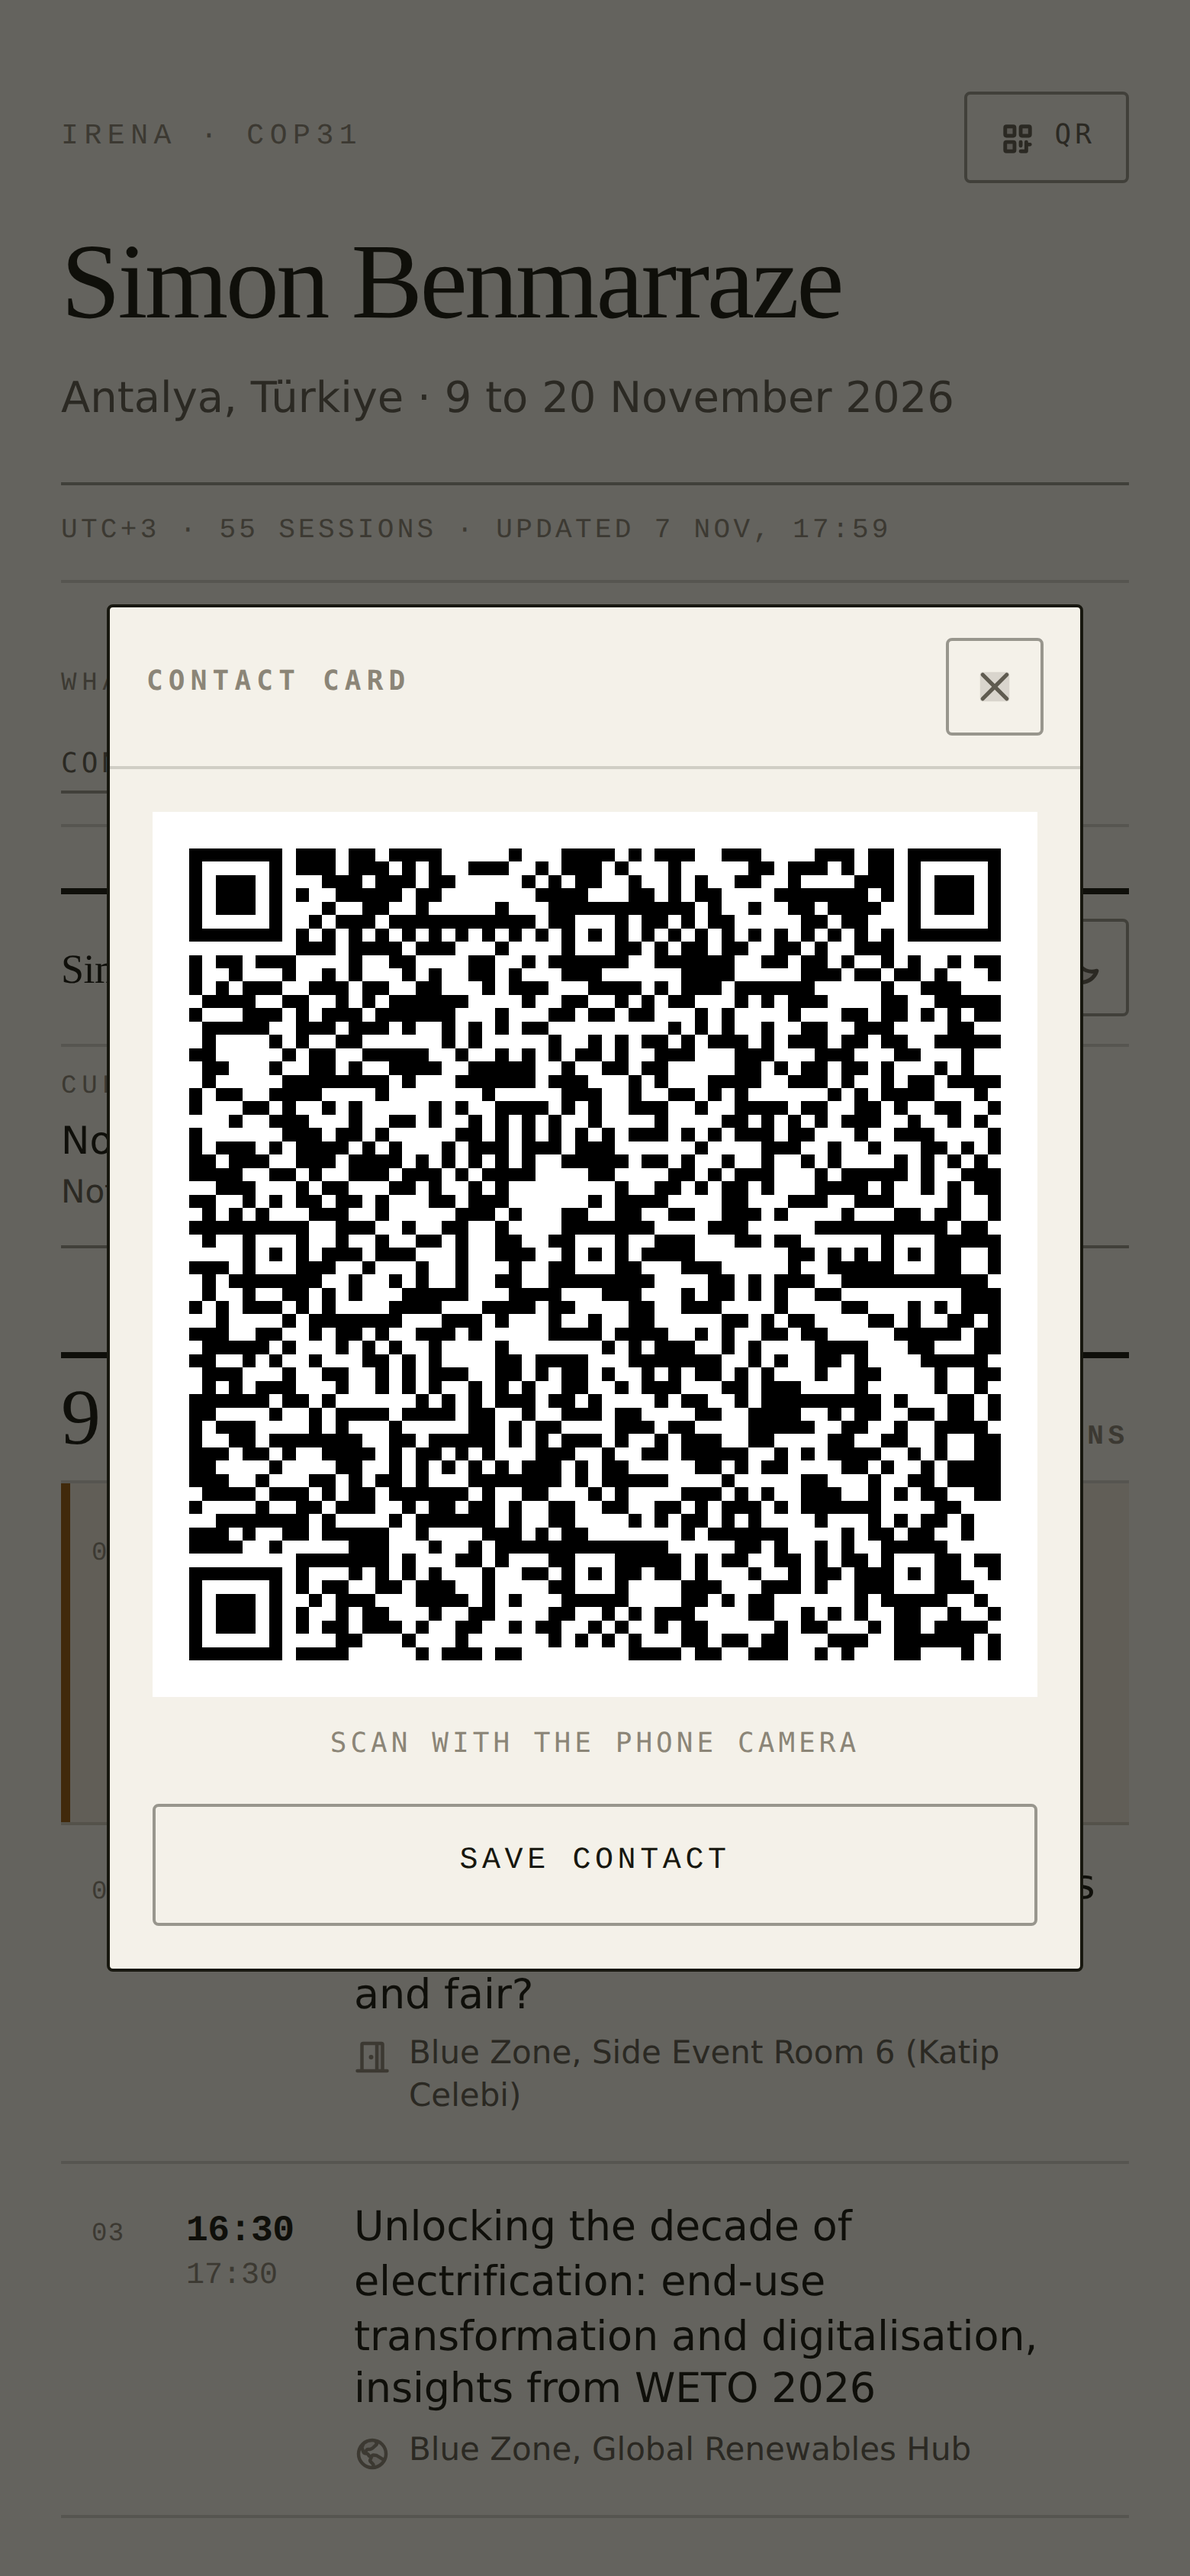
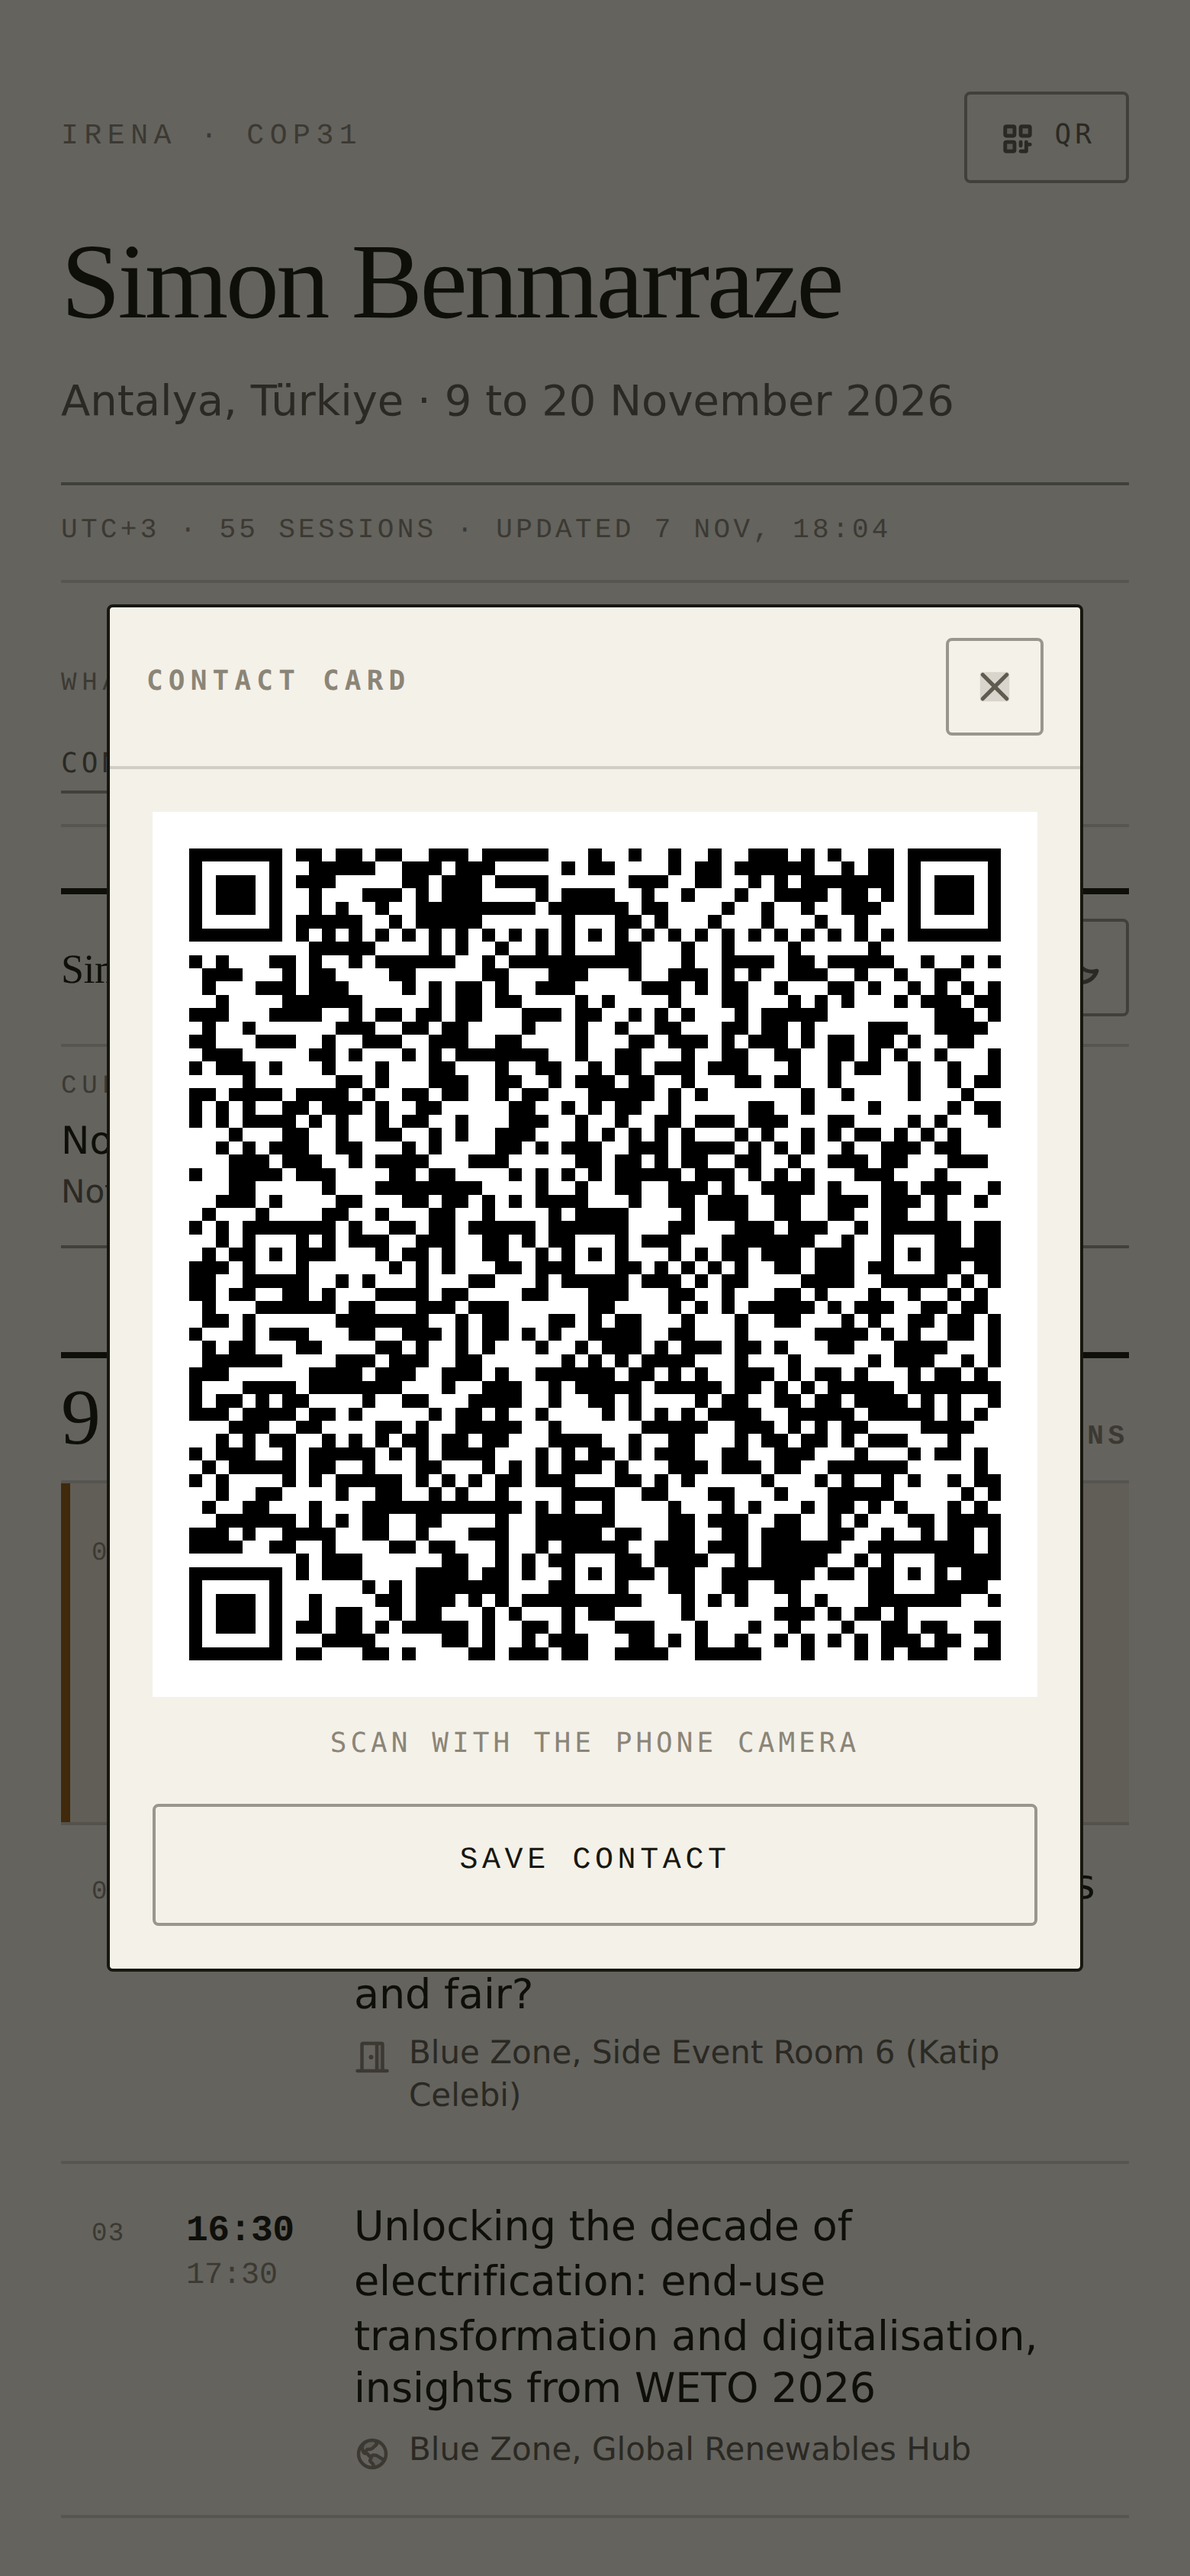
QR card carries the work email; contact card file matches

Changed region(s): [[0.1538, 0.311, 0.8615, 0.6531], [0.7692, 0.1244, 0.8, 0.1555]]

diff --git a/docs/index.html b/docs/index.html
@@ -213,7 +213,7 @@ footer{margin:30px 0 0}
     </button></div>
   <h1>Simon Benmarraze</h1>
   <p class="sub">Antalya, T&uuml;rkiye &middot; 9 to 20 November 2026</p>
-  <p class="facts">UTC+3 &middot; 55 sessions &middot; updated 7 Nov, 18:00</p>
+  <p class="facts">UTC+3 &middot; 55 sessions &middot; updated 7 Nov, 18:04</p>
 
   <p class="contactline"><span class="lbl">WhatsApp</span>
     <a class="num" href="tel:+491721523311">+49 172 1523311</a>
@@ -255,7 +255,7 @@ footer{margin:30px 0 0}
       <svg class="ic" aria-hidden="true"><use href="#i-x"></use></svg>
     </button>
   </div>
-  <div class="qrimg"><div class="qrwhite"><svg xmlns="http://www.w3.org/2000/svg" viewBox="0 0 61 61" shape-rendering="crispEdges"><path fill="#ffffff" d="M0 0h61v61H0z"/><path stroke="#000000" d="M0 0.5h7m1 0h3m1 0h2m1 0h4m5 0h1m3 0h4m1 0h1m1 0h3m2 0h3m4 0h3m1 0h2m1 0h7M0 1.5h1m5 0h1m1 0h3m1 0h3m1 0h1m1 0h1m2 0h3m2 0h1m1 0h3m1 0h1m3 0h1m5 0h2m1 0h3m1 0h1m1 0h2m1 0h1m5 0h1M0 2.5h1m1 0h3m1 0h1m3 0h3m1 0h3m1 0h2m5 0h1m1 0h1m1 0h2m2 0h1m2 0h1m1 0h1m2 0h2m2 0h1m4 0h3m1 0h1m1 0h3m1 0h1M0 3.5h1m1 0h3m1 0h1m1 0h1m2 0h5m1 0h2m7 0h4m3 0h2m1 0h1m1 0h2m4 0h7m1 0h1m1 0h1m1 0h3m1 0h1M0 4.5h1m1 0h3m1 0h1m3 0h1m2 0h2m2 0h1m5 0h1m3 0h11m1 0h1m2 0h1m2 0h2m1 0h4m2 0h1m1 0h3m1 0h1M0 5.5h1m5 0h1m2 0h1m1 0h3m1 0h11m1 0h2m3 0h1m1 0h2m1 0h1m1 0h2m5 0h2m1 0h2m3 0h1m5 0h1M0 6.5h7m1 0h1m1 0h1m1 0h1m1 0h1m1 0h1m1 0h1m1 0h1m1 0h1m1 0h1m1 0h1m1 0h1m1 0h1m1 0h1m1 0h1m1 0h1m1 0h1m1 0h1m1 0h1m1 0h1m1 0h1m1 0h1m1 0h1m1 0h1m1 0h7M8 7.5h3m1 0h4m1 0h3m3 0h1m4 0h1m3 0h2m1 0h1m1 0h2m1 0h2m2 0h2m1 0h1m2 0h3M0 8.5h1m1 0h2m1 0h3m4 0h1m2 0h2m4 0h2m2 0h1m1 0h6m2 0h6m2 0h2m1 0h2m1 0h1m2 0h1m1 0h1m2 0h1m1 0h2M0 9.5h1m2 0h1m3 0h1m2 0h1m1 0h1m3 0h1m1 0h1m2 0h2m1 0h1m3 0h3m6 0h4m5 0h3m1 0h2m1 0h2m1 0h1m3 0h1M0 10.5h1m1 0h1m1 0h3m2 0h3m1 0h2m2 0h2m3 0h1m1 0h3m3 0h4m1 0h1m1 0h3m1 0h6m5 0h1m2 0h3M1 11.5h4m2 0h2m2 0h1m1 0h1m1 0h6m4 0h1m2 0h2m2 0h1m1 0h1m1 0h2m3 0h1m1 0h1m1 0h3m4 0h2m2 0h5M0 12.5h1m3 0h3m1 0h1m1 0h3m1 0h6m3 0h1m3 0h2m1 0h2m1 0h2m3 0h1m1 0h1m4 0h1m3 0h2m1 0h2m1 0h1m1 0h1m1 0h2M1 13.5h5m2 0h3m1 0h3m1 0h1m2 0h1m1 0h1m1 0h1m1 0h2m9 0h1m1 0h1m1 0h1m2 0h1m2 0h2m2 0h3m4 0h2M1 14.5h1m4 0h1m1 0h1m2 0h2m6 0h1m1 0h1m5 0h1m2 0h1m1 0h1m1 0h2m1 0h1m1 0h3m1 0h1m1 0h3m1 0h2m1 0h2m2 0h5M0 15.5h2m5 0h1m1 0h2m2 0h5m2 0h1m2 0h1m1 0h1m1 0h1m1 0h2m1 0h1m2 0h3m3 0h3m3 0h3m3 0h2m3 0h1M1 16.5h2m3 0h1m2 0h2m1 0h1m2 0h4m2 0h5m2 0h1m2 0h2m1 0h2m5 0h2m1 0h1m1 0h2m1 0h2m1 0h1m3 0h1m1 0h1M1 17.5h1m5 0h8m1 0h1m3 0h6m1 0h3m3 0h1m1 0h1m3 0h4m2 0h3m1 0h1m2 0h1m1 0h2m1 0h4M0 18.5h1m1 0h2m2 0h4m4 0h1m7 0h1m5 0h3m2 0h1m2 0h2m1 0h1m1 0h1m6 0h1m1 0h1m1 0h4m3 0h1M0 19.5h1m3 0h2m1 0h1m2 0h1m1 0h1m5 0h1m1 0h1m2 0h4m1 0h1m1 0h1m2 0h3m2 0h1m2 0h4m1 0h2m2 0h2m1 0h1m2 0h2m2 0h1M3 20.5h1m2 0h3m3 0h1m2 0h2m1 0h1m2 0h1m1 0h1m1 0h1m1 0h1m2 0h1m4 0h1m4 0h2m1 0h1m1 0h1m1 0h1m1 0h3m2 0h1m2 0h1m1 0h1M0 21.5h1m6 0h3m1 0h2m1 0h1m5 0h2m1 0h1m1 0h1m1 0h1m1 0h1m1 0h1m1 0h3m1 0h1m1 0h1m1 0h3m1 0h2m3 0h1m2 0h3m4 0h1M0 22.5h1m1 0h3m1 0h1m1 0h4m1 0h1m1 0h1m3 0h1m1 0h3m1 0h3m1 0h3m6 0h1m4 0h3m2 0h1m2 0h1m3 0h2m1 0h1m1 0h1M0 23.5h2m1 0h3m2 0h3m1 0h4m1 0h1m1 0h1m1 0h1m1 0h1m1 0h1m2 0h5m1 0h2m1 0h1m2 0h1m2 0h1m2 0h1m1 0h1m4 0h1m1 0h1m1 0h1m1 0h1M0 24.5h4m2 0h2m1 0h1m2 0h3m1 0h3m1 0h1m1 0h4m4 0h2m4 0h2m1 0h1m1 0h3m3 0h1m1 0h5m1 0h1m2 0h3M2 25.5h3m3 0h1m1 0h2m3 0h2m1 0h1m2 0h1m1 0h1m8 0h1m2 0h2m1 0h1m1 0h2m1 0h1m3 0h4m1 0h1m2 0h1m1 0h1m1 0h2M0 26.5h2m2 0h1m1 0h1m1 0h2m1 0h2m1 0h1m3 0h2m1 0h3m6 0h1m1 0h4m4 0h2m3 0h3m2 0h3m4 0h1m2 0h1M1 27.5h1m1 0h1m1 0h1m3 0h3m2 0h1m5 0h3m1 0h1m3 0h2m2 0h2m2 0h2m2 0h3m1 0h1m4 0h1m3 0h2m1 0h2m2 0h1M0 28.5h9m2 0h3m2 0h1m2 0h2m2 0h1m4 0h7m4 0h3m5 0h10m1 0h2M1 29.5h1m2 0h1m3 0h1m2 0h1m2 0h1m2 0h2m1 0h1m2 0h2m2 0h2m3 0h1m2 0h3m3 0h2m1 0h2m6 0h1m3 0h5M4 30.5h1m1 0h1m1 0h1m1 0h3m1 0h3m3 0h1m2 0h3m2 0h1m1 0h1m1 0h1m1 0h4m7 0h2m1 0h1m1 0h1m1 0h1m1 0h1m1 0h2m2 0h1M0 31.5h3m1 0h1m3 0h3m2 0h1m3 0h1m2 0h1m3 0h1m2 0h2m3 0h2m3 0h3m5 0h1m2 0h5m3 0h2m2 0h1M1 32.5h1m1 0h7m2 0h1m2 0h1m1 0h1m2 0h1m2 0h2m2 0h8m4 0h2m1 0h1m1 0h3m2 0h11M1 33.5h1m2 0h1m2 0h2m1 0h1m1 0h1m3 0h5m3 0h4m3 0h3m3 0h1m1 0h2m1 0h1m1 0h1m2 0h2m9 0h3M0 34.5h1m1 0h1m1 0h3m1 0h1m1 0h1m4 0h4m3 0h4m1 0h2m4 0h2m2 0h3m4 0h1m4 0h2m3 0h1m1 0h1m1 0h3M2 35.5h1m4 0h1m1 0h7m3 0h3m1 0h1m3 0h1m2 0h1m2 0h2m5 0h2m1 0h1m1 0h2m4 0h2m1 0h1m2 0h2m1 0h1M0 36.5h3m2 0h2m2 0h1m1 0h2m1 0h1m2 0h3m1 0h1m5 0h4m1 0h4m2 0h1m1 0h1m2 0h2m1 0h2m5 0h5m1 0h2M1 37.5h5m1 0h1m3 0h1m1 0h1m1 0h1m2 0h1m4 0h1m7 0h1m1 0h1m1 0h3m2 0h1m1 0h1m4 0h4m3 0h2m3 0h2M0 38.5h2m2 0h1m1 0h1m2 0h1m3 0h2m1 0h1m1 0h1m4 0h2m1 0h4m3 0h7m2 0h1m1 0h1m2 0h2m1 0h1m4 0h5M1 39.5h3m3 0h1m2 0h2m2 0h1m1 0h1m1 0h3m2 0h2m1 0h1m1 0h2m1 0h1m2 0h1m1 0h1m1 0h2m1 0h1m1 0h1m3 0h1m2 0h2m4 0h1m2 0h2M1 40.5h1m1 0h1m1 0h3m3 0h1m2 0h1m1 0h1m1 0h1m2 0h1m1 0h1m1 0h1m2 0h2m2 0h1m1 0h3m3 0h2m1 0h3m4 0h1m5 0h1m2 0h1M0 41.5h6m1 0h2m1 0h1m6 0h1m1 0h1m1 0h1m1 0h3m1 0h2m1 0h1m4 0h1m1 0h2m2 0h1m1 0h9m1 0h1m3 0h2m1 0h1M0 42.5h2m4 0h1m2 0h1m1 0h4m1 0h4m1 0h2m2 0h1m2 0h3m1 0h2m4 0h2m2 0h4m2 0h1m1 0h2m2 0h2m1 0h2m1 0h1M0 43.5h1m1 0h3m4 0h1m1 0h1m3 0h1m5 0h2m1 0h1m1 0h2m4 0h3m1 0h2m4 0h5m2 0h2m2 0h1m2 0h4M0 44.5h1m2 0h2m1 0h7m2 0h2m1 0h5m1 0h1m1 0h1m1 0h3m1 0h1m2 0h1m1 0h3m2 0h2m4 0h2m2 0h2m2 0h1m2 0h2M0 45.5h3m1 0h2m1 0h1m2 0h4m1 0h1m1 0h2m1 0h1m1 0h1m3 0h3m2 0h1m2 0h2m1 0h5m2 0h1m1 0h1m1 0h4m2 0h1m1 0h1m2 0h2M0 46.5h2m4 0h1m4 0h2m2 0h1m1 0h1m1 0h1m1 0h1m1 0h1m1 0h3m1 0h1m1 0h2m5 0h2m1 0h1m1 0h2m4 0h2m1 0h1m2 0h1m1 0h4M0 47.5h3m2 0h1m3 0h2m1 0h1m1 0h2m1 0h1m3 0h7m1 0h1m1 0h5m4 0h1m5 0h2m3 0h1m2 0h2m1 0h4M1 48.5h4m1 0h3m1 0h1m1 0h2m1 0h6m1 0h1m2 0h2m3 0h1m1 0h1m4 0h3m1 0h1m1 0h1m2 0h3m2 0h1m1 0h1m1 0h2m2 0h2M0 49.5h1m4 0h1m2 0h2m1 0h3m2 0h1m1 0h2m1 0h2m1 0h1m2 0h2m2 0h2m2 0h2m1 0h1m1 0h3m1 0h1m1 0h6m4 0h2M2 50.5h7m1 0h1m4 0h1m1 0h6m1 0h1m2 0h2m4 0h1m1 0h1m1 0h2m1 0h1m1 0h1m4 0h1m3 0h1m1 0h1m1 0h2m1 0h1M0 51.5h3m1 0h1m2 0h2m1 0h5m2 0h1m4 0h3m1 0h1m1 0h2m7 0h1m1 0h6m4 0h1m1 0h2m1 0h2m2 0h1M0 52.5h4m2 0h1m5 0h3m3 0h1m2 0h1m1 0h13m5 0h2m1 0h1m2 0h1m1 0h1m2 0h5M8 53.5h7m1 0h1m3 0h2m1 0h1m3 0h2m3 0h5m1 0h1m1 0h2m2 0h2m1 0h1m1 0h2m1 0h1m3 0h2m1 0h2M0 54.5h7m1 0h1m3 0h1m1 0h1m1 0h1m1 0h1m3 0h1m2 0h2m1 0h1m1 0h1m1 0h2m1 0h2m1 0h1m3 0h1m2 0h1m1 0h2m1 0h3m1 0h1m1 0h2m2 0h1M0 55.5h1m5 0h1m1 0h1m1 0h2m2 0h2m1 0h3m2 0h1m4 0h2m3 0h1m4 0h3m3 0h3m1 0h1m2 0h3m3 0h3M0 56.5h1m1 0h3m1 0h1m2 0h1m1 0h3m3 0h4m1 0h1m1 0h1m3 0h5m4 0h2m1 0h1m1 0h2m6 0h1m1 0h5m2 0h1M0 57.5h1m1 0h3m1 0h1m1 0h1m2 0h1m1 0h2m3 0h1m2 0h2m4 0h2m2 0h1m1 0h1m1 0h3m4 0h2m2 0h1m1 0h1m1 0h1m2 0h2m2 0h1m2 0h1M0 58.5h1m1 0h3m1 0h1m1 0h1m1 0h2m1 0h3m1 0h1m2 0h2m2 0h1m1 0h2m2 0h1m1 0h1m2 0h1m1 0h2m5 0h1m1 0h2m3 0h1m1 0h2m1 0h4M0 59.5h1m5 0h1m4 0h2m3 0h1m3 0h1m6 0h1m1 0h1m1 0h1m1 0h1m3 0h2m1 0h2m1 0h2m3 0h3m2 0h6m1 0h1M0 60.5h7m1 0h4m5 0h1m1 0h3m1 0h2m8 0h4m1 0h2m2 0h3m2 0h1m1 0h1m3 0h2m3 0h1m1 0h1"/></svg>
+  <div class="qrimg"><div class="qrwhite"><svg xmlns="http://www.w3.org/2000/svg" viewBox="0 0 61 61" shape-rendering="crispEdges"><path fill="#ffffff" d="M0 0h61v61H0z"/><path stroke="#000000" d="M0 0.5h7m1 0h2m1 0h2m1 0h2m2 0h3m1 0h5m3 0h1m2 0h1m2 0h1m2 0h1m2 0h3m1 0h1m1 0h1m2 0h2m1 0h7M0 1.5h1m5 0h1m2 0h5m2 0h3m1 0h3m5 0h1m1 0h2m4 0h1m1 0h2m1 0h6m2 0h1m1 0h2m1 0h1m5 0h1M0 2.5h1m1 0h3m1 0h1m1 0h3m5 0h2m1 0h3m1 0h4m6 0h3m2 0h2m2 0h1m1 0h1m1 0h7m1 0h1m1 0h3m1 0h1M0 3.5h1m1 0h3m1 0h1m2 0h1m3 0h3m1 0h1m1 0h3m4 0h1m1 0h4m2 0h1m2 0h1m3 0h1m2 0h4m1 0h2m1 0h1m1 0h1m1 0h3m1 0h1M0 4.5h1m1 0h3m1 0h1m2 0h1m1 0h1m2 0h1m2 0h9m1 0h6m1 0h2m4 0h1m2 0h1m2 0h1m2 0h3m2 0h1m1 0h3m1 0h1M0 5.5h1m5 0h1m1 0h5m2 0h1m1 0h5m6 0h1m3 0h2m1 0h1m3 0h1m3 0h1m3 0h1m2 0h1m3 0h1m5 0h1M0 6.5h7m1 0h1m1 0h1m1 0h1m1 0h1m1 0h1m1 0h1m1 0h1m1 0h1m1 0h1m1 0h1m1 0h1m1 0h1m1 0h1m1 0h1m1 0h1m1 0h1m1 0h1m1 0h1m1 0h1m1 0h1m1 0h1m1 0h1m1 0h1m1 0h7M9 7.5h5m4 0h1m1 0h1m2 0h1m2 0h1m1 0h1m3 0h2m3 0h1m2 0h1m4 0h1m5 0h1M0 8.5h1m1 0h1m3 0h2m1 0h1m2 0h1m1 0h6m2 0h1m1 0h10m3 0h1m2 0h4m1 0h2m1 0h5m2 0h1m2 0h1m1 0h1M1 9.5h3m3 0h1m1 0h2m4 0h2m5 0h2m3 0h3m3 0h1m2 0h3m1 0h1m1 0h1m2 0h3m2 0h1m2 0h1m2 0h2M1 10.5h1m3 0h3m1 0h3m4 0h1m1 0h1m1 0h2m1 0h1m2 0h3m5 0h3m1 0h1m1 0h2m2 0h1m3 0h2m1 0h1m2 0h1m1 0h1m1 0h1m1 0h1M2 11.5h1m4 0h6m5 0h1m1 0h2m1 0h2m4 0h1m1 0h1m4 0h1m3 0h2m3 0h1m1 0h1m1 0h1m3 0h1m1 0h3m1 0h2M0 12.5h3m3 0h4m2 0h1m1 0h2m1 0h2m1 0h2m3 0h3m1 0h2m2 0h1m1 0h1m1 0h1m3 0h1m1 0h5m8 0h3m1 0h1M1 13.5h1m2 0h1m6 0h3m2 0h2m1 0h2m4 0h1m3 0h1m2 0h1m2 0h2m3 0h2m1 0h2m1 0h1m4 0h3m2 0h4M0 14.5h2m3 0h3m2 0h1m2 0h3m2 0h3m2 0h2m4 0h1m3 0h2m1 0h3m1 0h1m1 0h3m1 0h1m1 0h2m1 0h2m1 0h1m2 0h2M1 15.5h3m5 0h2m1 0h1m3 0h1m1 0h1m1 0h7m2 0h1m2 0h2m3 0h1m2 0h2m2 0h2m2 0h2m1 0h1m1 0h1m2 0h1m3 0h1M0 16.5h1m1 0h3m1 0h1m3 0h1m3 0h1m3 0h2m3 0h1m2 0h2m2 0h1m1 0h2m1 0h3m1 0h3m3 0h1m2 0h1m1 0h2m2 0h1m2 0h1m2 0h1M4 17.5h1m6 0h2m1 0h1m3 0h3m2 0h2m2 0h1m1 0h3m1 0h2m2 0h1m3 0h2m1 0h2m2 0h1m5 0h1m2 0h1m1 0h2M0 18.5h2m1 0h4m1 0h4m1 0h1m2 0h2m1 0h2m2 0h1m1 0h2m3 0h5m1 0h1m1 0h1m7 0h1m2 0h1m4 0h1m3 0h1M0 19.5h1m1 0h1m1 0h1m2 0h2m1 0h3m1 0h1m2 0h2m5 0h2m2 0h1m1 0h1m1 0h2m2 0h1m5 0h2m2 0h1m4 0h1m5 0h1m1 0h2M0 20.5h1m1 0h1m1 0h4m1 0h1m1 0h1m2 0h1m1 0h2m2 0h1m3 0h3m2 0h1m2 0h1m2 0h2m1 0h3m1 0h3m3 0h2m4 0h1m1 0h1m3 0h1M3 21.5h1m3 0h2m2 0h1m2 0h2m2 0h1m1 0h1m2 0h3m3 0h1m1 0h1m1 0h1m1 0h1m1 0h1m3 0h1m1 0h1m2 0h1m1 0h1m1 0h2m1 0h1m1 0h1m1 0h1M2 22.5h1m1 0h1m1 0h3m2 0h2m3 0h1m1 0h1m4 0h2m1 0h1m1 0h3m2 0h3m1 0h4m1 0h1m1 0h1m1 0h1m2 0h1m2 0h3m1 0h2M3 23.5h3m1 0h3m2 0h1m1 0h4m3 0h3m5 0h2m1 0h2m1 0h1m1 0h2m2 0h2m2 0h1m2 0h3m1 0h2m3 0h3M0 24.5h1m2 0h4m1 0h3m4 0h2m1 0h2m4 0h1m1 0h1m1 0h1m1 0h1m1 0h5m1 0h3m1 0h1m1 0h1m1 0h1m3 0h3m3 0h1M3 25.5h2m5 0h1m3 0h8m4 0h1m2 0h1m2 0h2m2 0h3m1 0h1m2 0h4m1 0h1m3 0h2m1 0h3m2 0h1M2 26.5h3m1 0h1m4 0h2m3 0h2m1 0h2m1 0h1m1 0h1m1 0h4m3 0h1m2 0h2m1 0h3m2 0h2m2 0h3m1 0h3m1 0h1m2 0h1M1 27.5h1m3 0h1m4 0h2m2 0h1m3 0h2m2 0h1m4 0h1m1 0h4m4 0h1m1 0h3m2 0h2m2 0h2m2 0h2m2 0h1M0 28.5h1m1 0h1m1 0h7m1 0h1m2 0h2m1 0h2m1 0h5m1 0h6m3 0h2m3 0h3m1 0h3m2 0h1m1 0h6m1 0h2M2 29.5h1m1 0h1m3 0h1m1 0h1m1 0h3m2 0h3m2 0h2m1 0h1m1 0h2m3 0h1m1 0h3m3 0h7m2 0h1m2 0h1m3 0h2m1 0h2M1 30.5h1m1 0h2m1 0h1m1 0h3m3 0h1m1 0h2m1 0h1m2 0h2m2 0h1m1 0h1m1 0h1m1 0h1m3 0h1m1 0h1m1 0h2m1 0h3m1 0h3m2 0h1m1 0h1m1 0h5M0 31.5h3m1 0h1m3 0h1m6 0h1m1 0h1m1 0h1m3 0h2m1 0h3m3 0h2m1 0h1m1 0h1m1 0h1m1 0h1m2 0h2m1 0h3m1 0h2m3 0h2m1 0h2M0 32.5h2m2 0h5m2 0h1m1 0h1m3 0h1m3 0h2m3 0h1m1 0h5m1 0h3m1 0h1m1 0h2m4 0h4m2 0h5m1 0h1m1 0h1M0 33.5h2m1 0h2m2 0h2m1 0h1m3 0h4m1 0h2m4 0h2m3 0h3m3 0h2m2 0h1m3 0h2m1 0h1m3 0h1m2 0h1m2 0h1m1 0h1M1 34.5h1m3 0h6m1 0h2m3 0h3m1 0h3m6 0h2m4 0h1m1 0h1m1 0h1m1 0h5m1 0h1m1 0h3m2 0h2m1 0h2M1 35.5h2m1 0h1m6 0h7m2 0h1m1 0h2m3 0h2m1 0h1m1 0h2m3 0h1m3 0h1m2 0h2m3 0h1m1 0h1m2 0h2m1 0h2m1 0h1M0 36.5h1m3 0h1m1 0h3m3 0h2m2 0h3m1 0h1m1 0h2m1 0h1m1 0h1m2 0h4m2 0h2m3 0h1m5 0h4m1 0h1m1 0h1m2 0h2m1 0h1M1 37.5h1m1 0h2m3 0h2m4 0h2m1 0h1m2 0h1m1 0h1m3 0h1m2 0h1m1 0h3m1 0h1m1 0h3m1 0h2m1 0h1m3 0h2m3 0h4m3 0h1M1 38.5h6m4 0h3m1 0h3m2 0h2m6 0h1m1 0h1m1 0h1m1 0h4m3 0h1m3 0h1m5 0h1m1 0h3m2 0h1m1 0h1M0 39.5h3m6 0h4m1 0h3m2 0h3m1 0h1m2 0h6m1 0h2m1 0h1m1 0h1m2 0h3m1 0h1m1 0h2m1 0h1m3 0h1m1 0h2m1 0h1M0 40.5h1m3 0h4m1 0h7m3 0h1m2 0h3m2 0h1m1 0h5m1 0h5m1 0h2m1 0h1m1 0h1m1 0h5m1 0h7M0 41.5h1m1 0h2m1 0h1m1 0h2m4 0h1m2 0h2m3 0h4m2 0h1m2 0h2m1 0h1m4 0h1m1 0h2m2 0h2m1 0h2m1 0h4m1 0h1m1 0h1m2 0h1M0 42.5h3m1 0h4m1 0h2m1 0h1m5 0h1m1 0h2m1 0h1m2 0h1m4 0h1m1 0h1m1 0h1m1 0h1m1 0h4m2 0h5m1 0h5m1 0h1m1 0h1M3 43.5h3m2 0h2m4 0h2m1 0h1m2 0h5m2 0h1m6 0h5m2 0h3m1 0h1m1 0h1m1 0h2m4 0h4M2 44.5h1m1 0h1m1 0h2m2 0h1m1 0h1m1 0h1m1 0h2m1 0h2m1 0h2m3 0h4m2 0h1m2 0h2m3 0h1m1 0h2m1 0h2m1 0h1m1 0h3m3 0h1M0 45.5h1m1 0h3m2 0h1m1 0h5m1 0h1m1 0h1m1 0h4m3 0h1m1 0h1m1 0h2m1 0h1m1 0h3m2 0h2m2 0h3m3 0h1m3 0h1m1 0h2m1 0h1M1 46.5h1m1 0h5m1 0h2m2 0h1m3 0h2m3 0h1m1 0h1m1 0h1m1 0h3m1 0h1m3 0h3m1 0h3m1 0h2m2 0h6m5 0h1M0 47.5h1m1 0h1m4 0h1m1 0h1m1 0h5m1 0h1m1 0h1m1 0h1m1 0h2m1 0h3m3 0h2m1 0h1m1 0h1m5 0h1m3 0h1m1 0h1m2 0h1m1 0h1m2 0h1m1 0h2M2 48.5h1m2 0h2m4 0h1m2 0h2m2 0h1m1 0h1m2 0h1m4 0h4m2 0h2m3 0h2m3 0h1m3 0h5m5 0h1m1 0h1M1 49.5h1m2 0h2m3 0h1m3 0h12m1 0h1m1 0h1m2 0h1m4 0h1m3 0h1m1 0h1m3 0h1m1 0h2m1 0h1m1 0h1m3 0h1m1 0h1M2 50.5h6m1 0h1m1 0h1m1 0h2m2 0h2m4 0h1m2 0h6m4 0h2m1 0h3m2 0h2m2 0h1m1 0h1m3 0h2m1 0h4M0 51.5h3m1 0h1m2 0h4m2 0h2m2 0h1m3 0h3m2 0h5m1 0h2m2 0h2m2 0h2m1 0h3m2 0h2m2 0h1m2 0h1m1 0h2m1 0h1M0 52.5h4m2 0h2m2 0h1m4 0h2m1 0h2m3 0h1m2 0h1m1 0h5m2 0h3m1 0h3m1 0h6m2 0h8m1 0h1M8 53.5h1m1 0h3m6 0h2m2 0h1m1 0h1m1 0h2m3 0h2m1 0h4m2 0h1m1 0h5m2 0h1m1 0h1m3 0h5M0 54.5h7m1 0h1m1 0h3m4 0h4m1 0h2m1 0h1m2 0h1m1 0h1m1 0h3m1 0h2m2 0h7m1 0h2m1 0h2m1 0h1m1 0h1m1 0h3M0 55.5h1m5 0h1m6 0h1m1 0h1m1 0h7m3 0h2m3 0h1m3 0h2m2 0h2m2 0h2m5 0h2m3 0h4M0 56.5h1m1 0h3m1 0h1m2 0h1m4 0h2m1 0h3m1 0h1m1 0h1m1 0h9m3 0h1m1 0h1m1 0h1m3 0h1m1 0h1m3 0h7m2 0h1M0 57.5h1m1 0h3m1 0h1m2 0h1m1 0h2m2 0h1m1 0h2m3 0h1m1 0h1m3 0h1m1 0h2m5 0h1m6 0h3m1 0h1m1 0h2m1 0h1M0 58.5h1m1 0h3m1 0h1m1 0h2m1 0h2m1 0h1m1 0h5m1 0h1m2 0h2m1 0h1m3 0h3m3 0h1m3 0h1m2 0h1m3 0h1m2 0h2m1 0h2m2 0h2M0 59.5h1m5 0h1m3 0h4m5 0h2m1 0h1m2 0h1m1 0h3m3 0h2m1 0h1m1 0h1m2 0h1m2 0h1m1 0h1m1 0h1m1 0h1m1 0h3m1 0h2m2 0h1M0 60.5h7m1 0h2m3 0h2m1 0h1m4 0h2m1 0h3m1 0h2m2 0h4m2 0h5m3 0h1m3 0h1m1 0h1m1 0h3m2 0h2"/></svg>
 </div></div>
   <p class="qrhint">Scan with the phone camera</p>
   <a class="btn" href="simon.vcf" download>Save contact</a>
